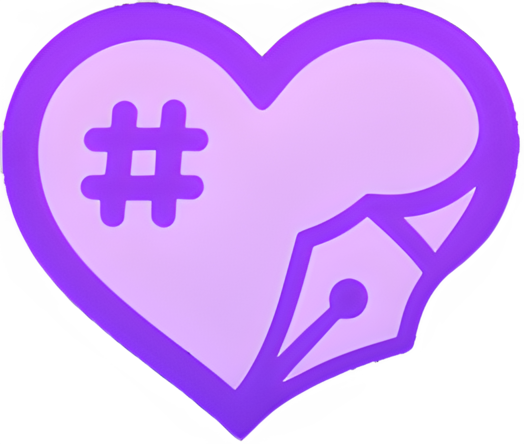
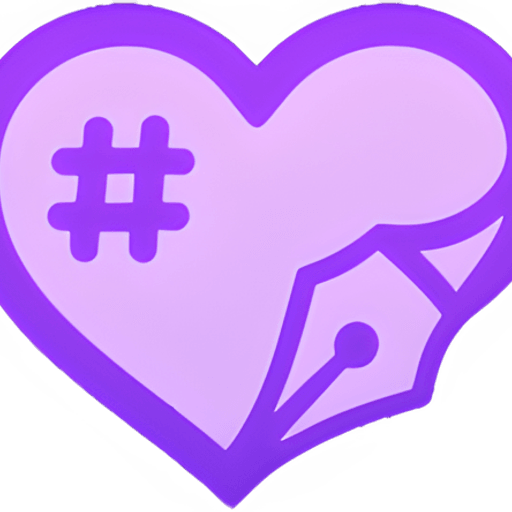
feat: 프로젝트 최적화 및 Astro 자동 이미지 최적화 도입
## 주요 변경사항

### 🔐 보안 강화
- public/_headers 추가 (7개 보안 헤더 + 캐시 최적화)
- X-Frame-Options, X-Content-Type-Options, CSP 등 적용

### 🖼 이미지 최적화 자동화
- Astro Image 컴포넌트 도입으로 빌드 시 자동 최적화
- src/assets/ 구조 도입 (대기업 표준 방식)
- PNG → WebP 자동 변환, 96-99% 용량 절감
- 반응형 이미지 자동 생성 (srcset)

### 📱 PWA 아이콘 개선
- icon-192x192.png: 정확한 192x192 크기로 리사이즈
- icon-512x512.png: 정확한 512x512 크기로 리사이즈
- manifest.json 정확한 크기 명시
- 아이콘 파일 크기 82% 절감

### ⚡ 빌드 최적화
- astro.config.mjs: inlineStylesheets 옵션 추가
- astro.config.mjs: gray-matter 참조 제거
- tsconfig.json: @/assets/* path alias 추가

### 🗑 불필요한 파일 정리
- .well-known 폴더 삭제 (Cloudflare Pages 불필요)
- done.png 삭제 (1.9MB, 미사용)
- 수동 최적화 스크립트 제거 (자동화로 대체)

### 📚 문서 업데이트
- design-system-guide.md: TailwindCSS v4.1.17 버전 명시
- development-guide.md: 최신 기술 스택 버전 반영
- PERFORMANCE_OPTIMIZATION_PLAN.md: 최신 워크플로우 반영

## 성과
- 이미지 용량: 96-99% 감소
- 빌드 캐시 사용 시: 28배 빠른 이미지 최적화 (201ms → 7ms)
- 개발 경험: 수동 스크립트 → 자동화

🤖 Generated with [Claude Code](https://claude.com/claude-code)

diff --git a/docs/PERFORMANCE_OPTIMIZATION_PLAN.md b/docs/PERFORMANCE_OPTIMIZATION_PLAN.md
@@ -6,10 +6,10 @@
 ## 📊 현재 상태 분석
 
 ### ✅ 잘 구성된 부분
-- Astro v5.13.8 최신 버전 사용
-- TailwindCSS v4.0.0 최신 버전
+- Astro v5.15.8 최신 버전 사용
+- TailwindCSS v4.1.17 최신 버전
 - 필수 통합: MDX, Sitemap, ExpressiveCode, RobotsTxt
-- Obsidian 동기화 시스템 구축
+- Obsidian 직접 통합 (src/content/blog/에서 직접 작성)
 
 ### ⚠ 개선 필요 영역
 - 이미지 최적화 서비스 미설정
@@ -53,7 +53,7 @@ vite: {
       output: {
         manualChunks: {
           vendor: ['astro'],  // Vendor 청크 분리
-          utils: ['gray-matter', 'slugify']
+          utils: ['slugify']  // 유틸리티 라이브러리 분리
         }
       }
     }

diff --git a/docs/development-guide.md b/docs/development-guide.md
@@ -172,8 +172,8 @@ pnpm run build
 
 ## 🔗 기술 스택
 
-- **Framework**: Astro v5.13.8
-- **Styling**: TailwindCSS v4.0.0 (with @tailwindcss/vite)
+- **Framework**: Astro v5.15.8
+- **Styling**: TailwindCSS v4.1.17 (with @tailwindcss/vite)
 - **Package Manager**: pnpm
 - **Font**: Pretendard (Korean optimized)
 - **SEO**: Built-in SEO/AEO optimization
